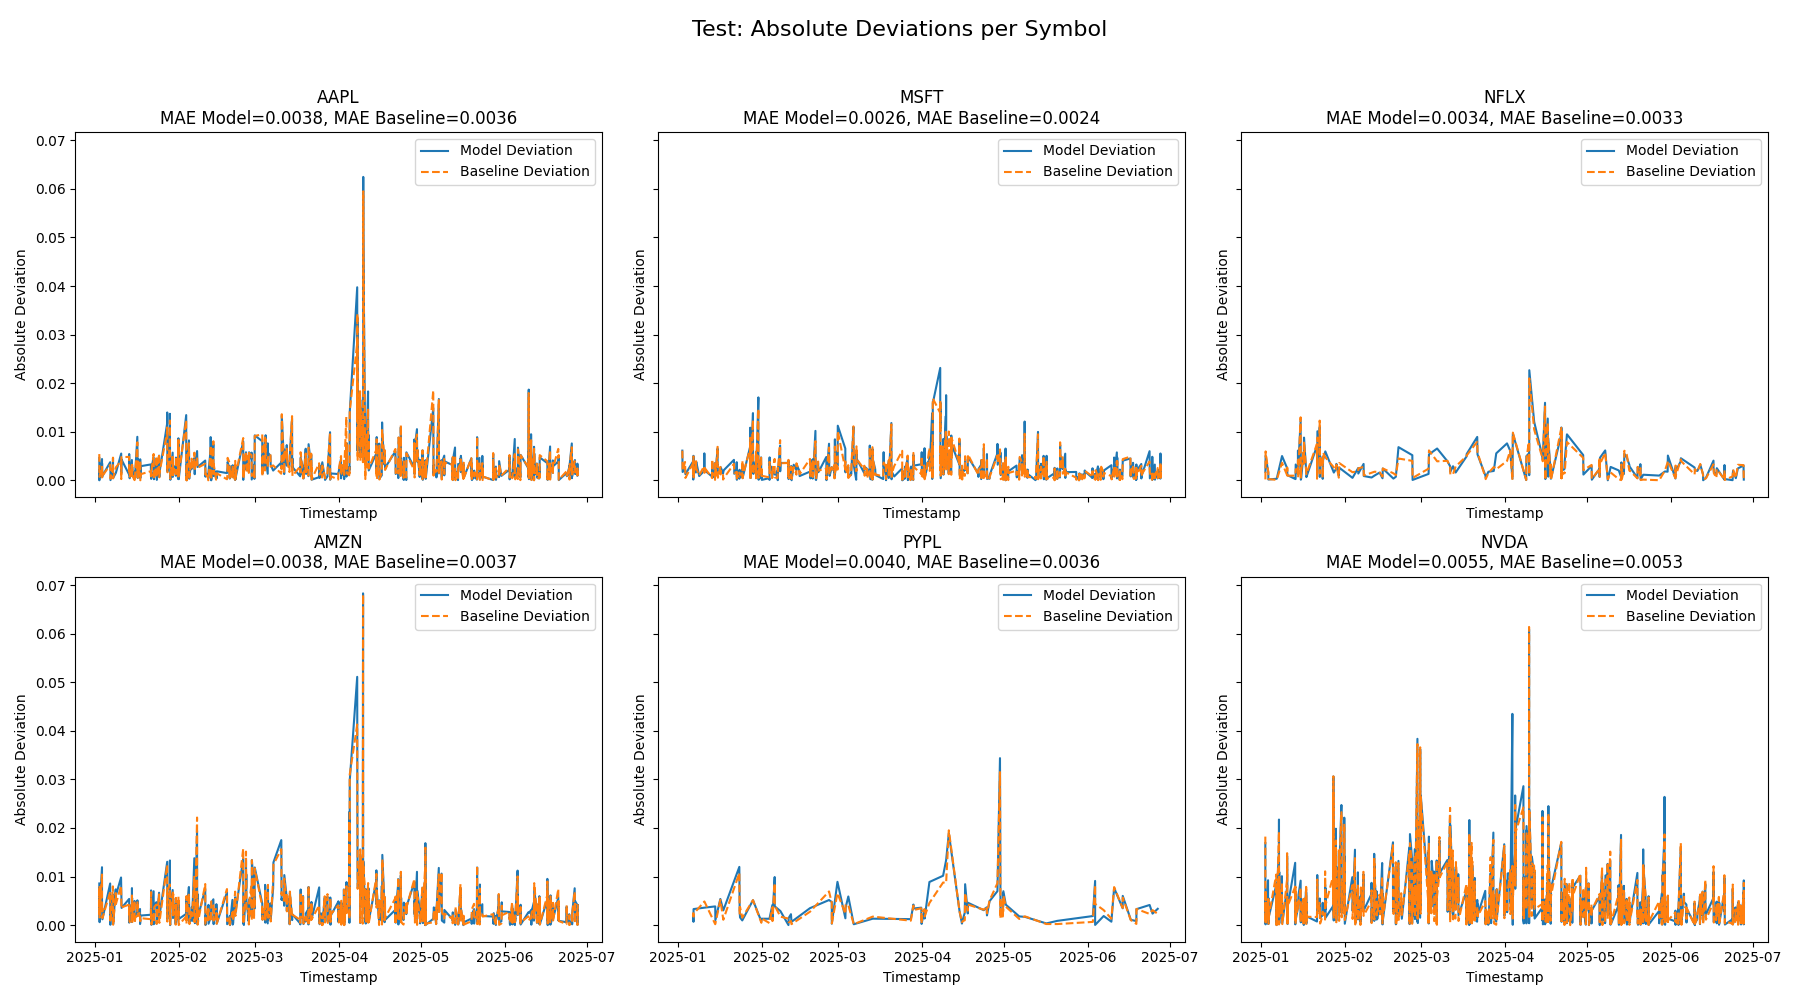
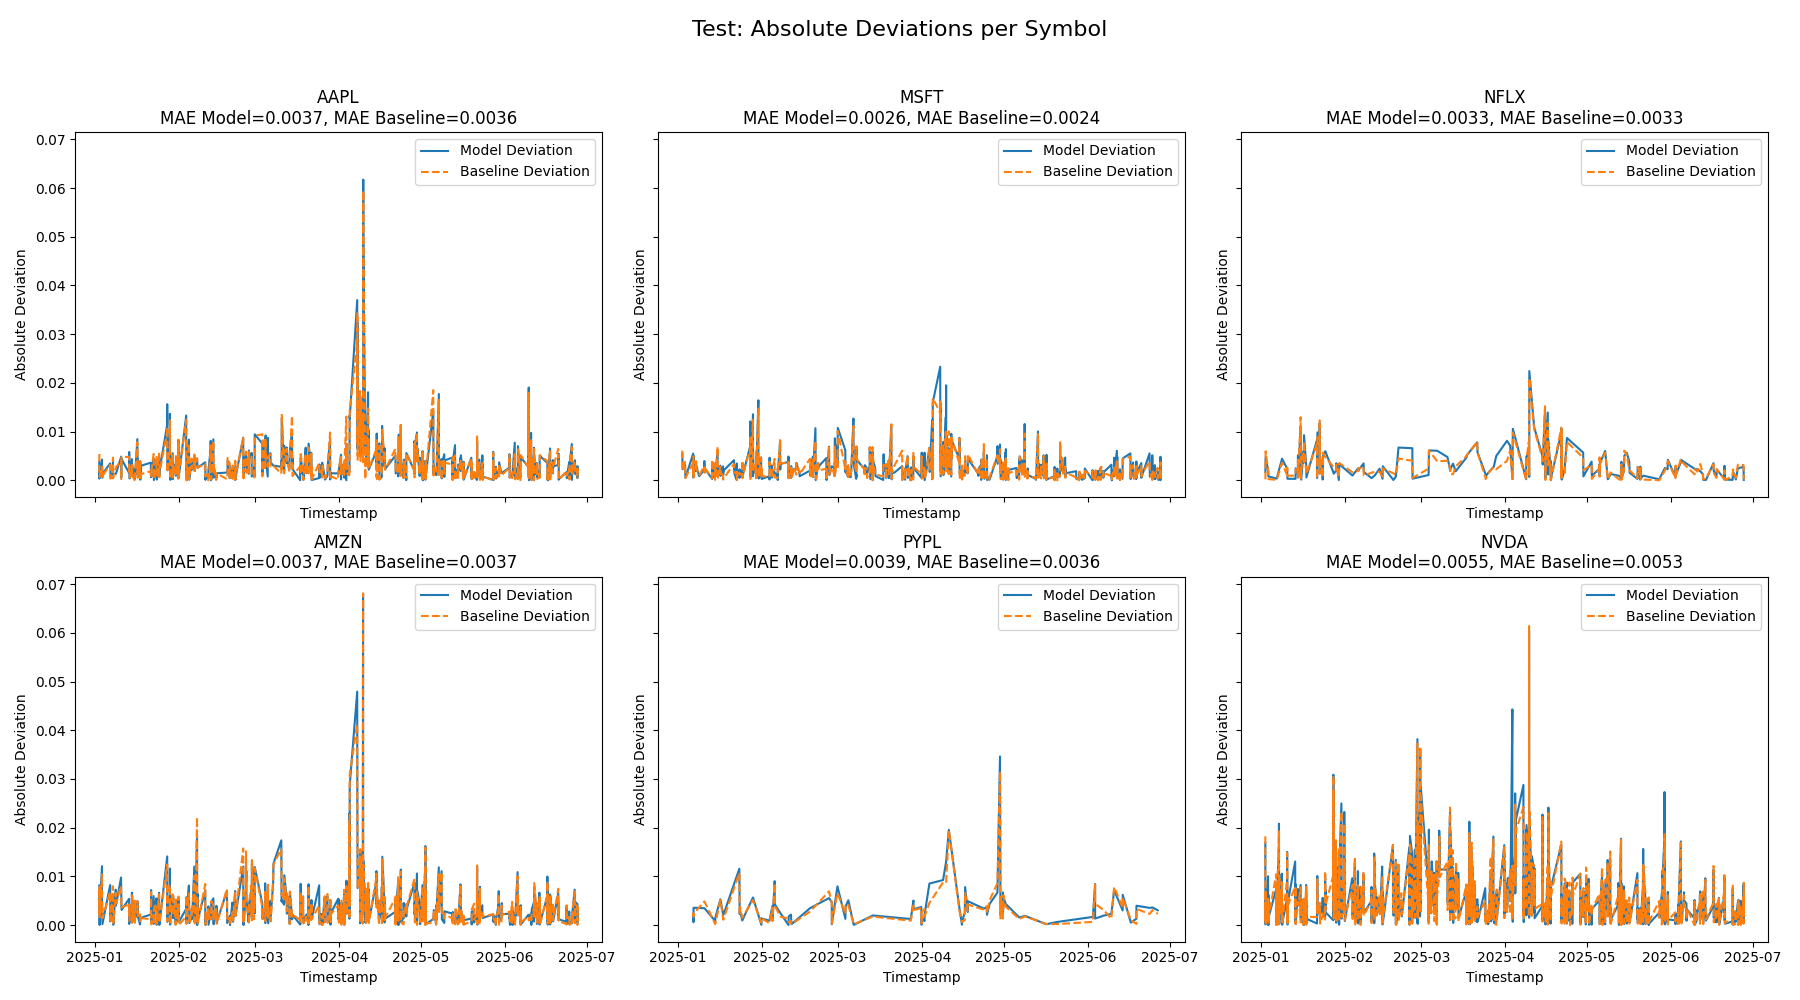
Iteration 1: Update for step 8

diff --git a/scripts/08_model_testing.py b/scripts/08_model_testing.py
@@ -21,6 +21,15 @@ y_test = pd.read_parquet(f"{PATH_BARS}/news model/y_test_news.parquet")
 # Load trained model
 model = joblib.load(f"{PATH_BARS}/news model/random_forest_model_news.pkl")
 
+# Ensure consistent feature set in test data
+expected = list(model.feature_names_in_)
+X_test = X_test[[f for f in expected if f in X_test.columns]]
+for f in expected:
+    if f not in X_test.columns:
+        X_test[f] = 0
+
+X_test = X_test[expected]
+
 # Deviation per symbol
 results_per_symbol = []
 fig, axes = plt.subplots(2, 3, figsize=(18, 10), sharex=True, sharey=True)
